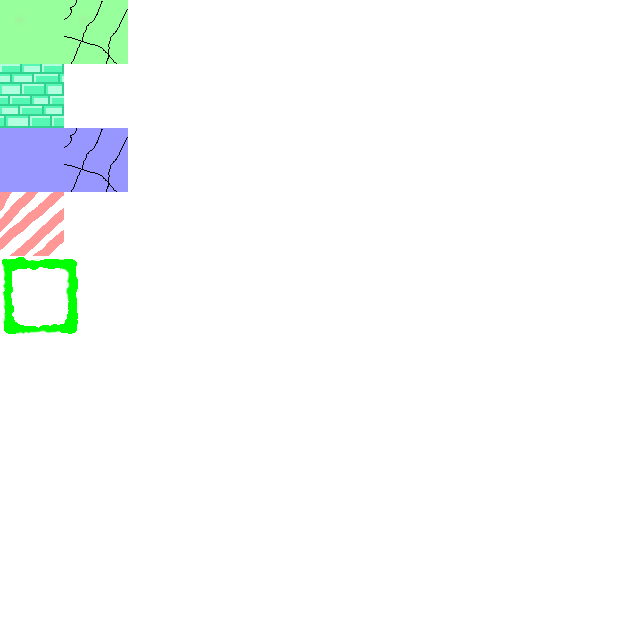
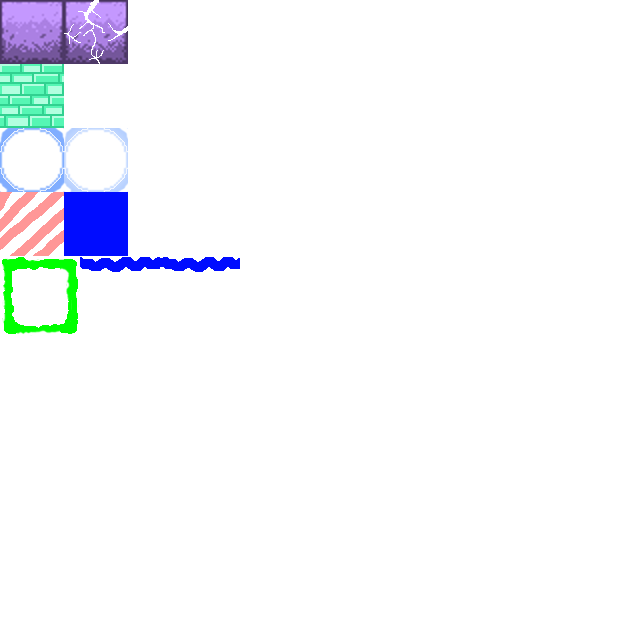
arrumado assets com as novas artes

Changed region(s): [[0.0, 0.1875, 0.375, 0.4375], [0.0, 0.0, 0.2188, 0.125]]

diff --git a/src/playerprojectile.cpp b/src/playerprojectile.cpp
@@ -123,7 +123,7 @@ void PlayerProjectile::animationDone(std::string currentAnimation){
 }
 
 void PlayerProjectile::setupAnimations(){
-	this->addAnimation(1, 0, 0, "basic", 24,24, Vector2 (0,0));
+	this->addAnimation(1, 0, 0, "basic", 64,64, Vector2 (0,0));
 }
 
 std::string PlayerProjectile::getObjectType(){
